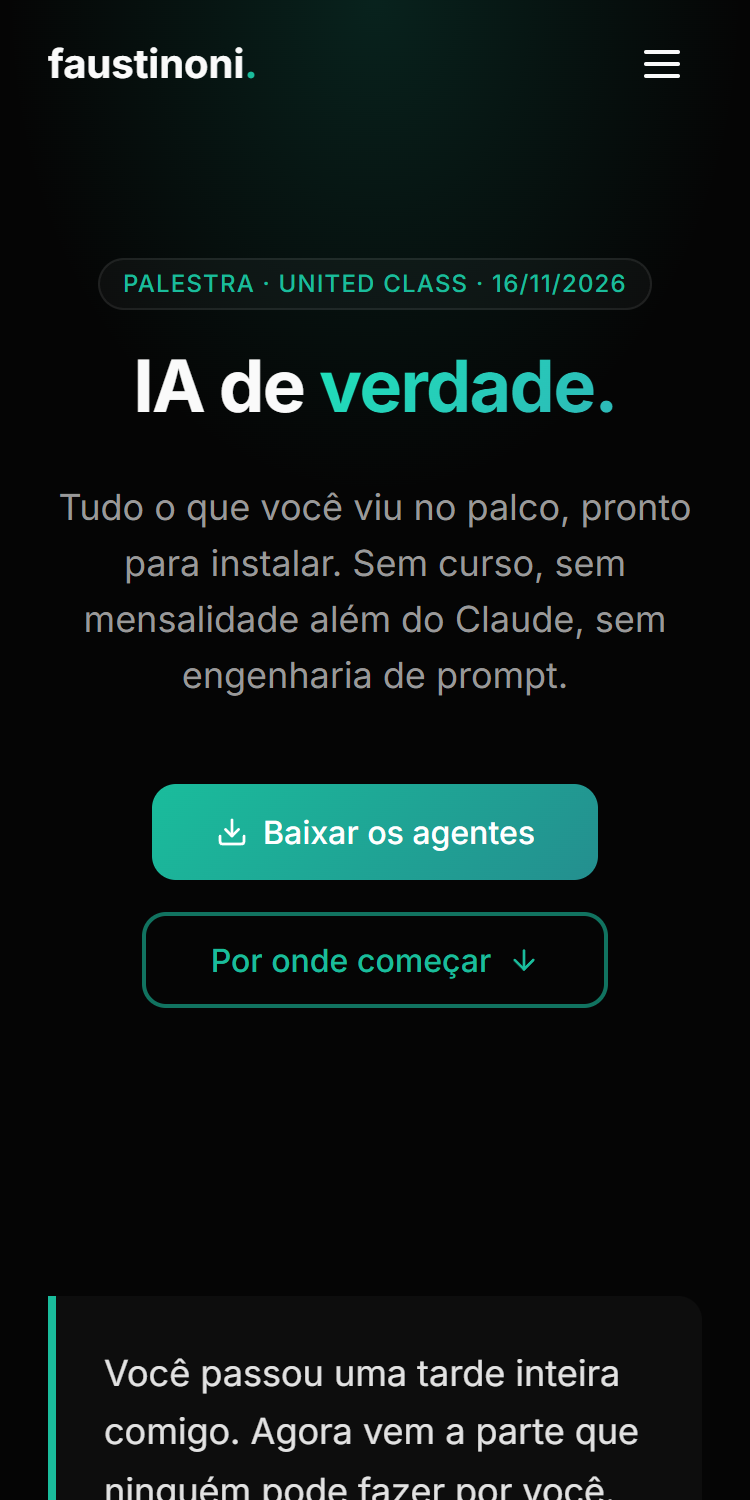
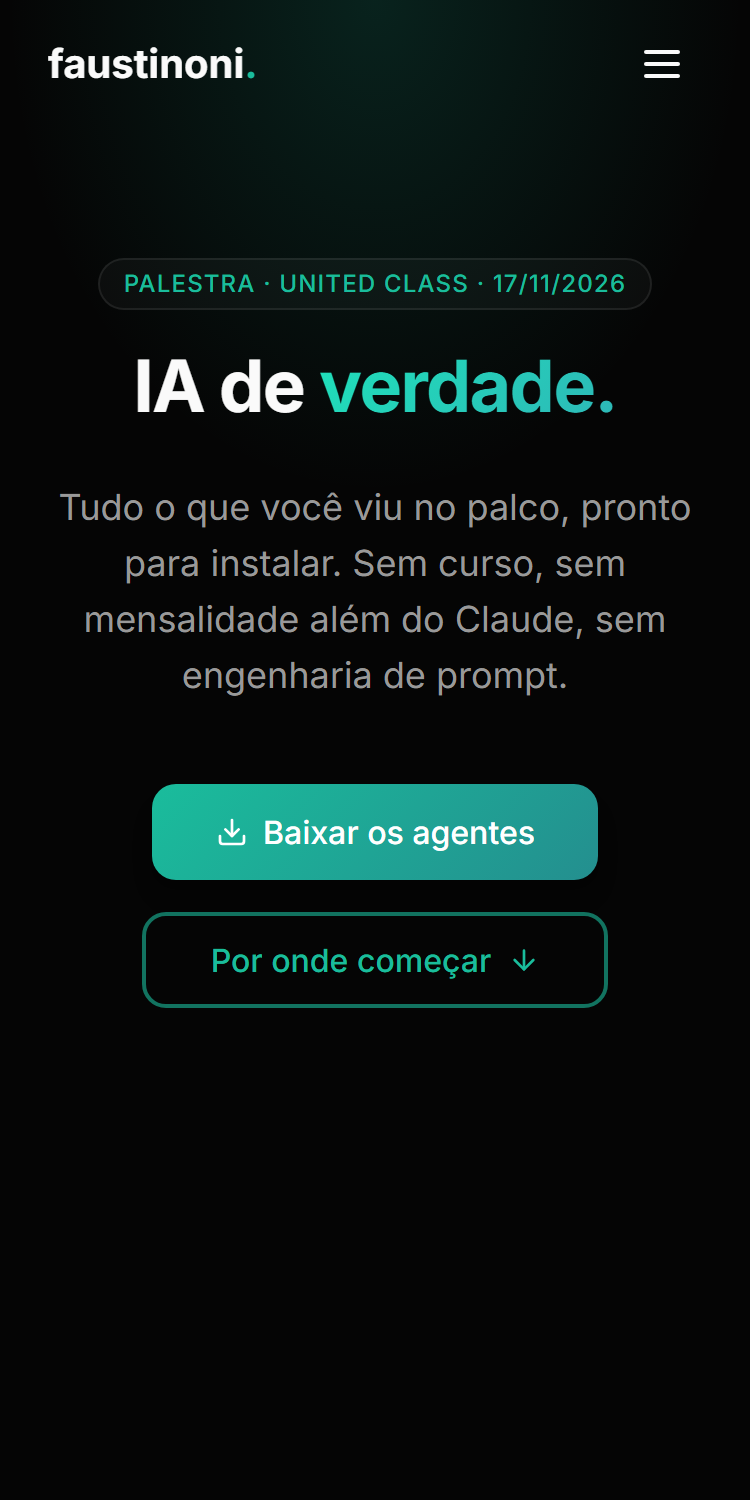
Treinamento de tráfego agora é o TPC 2026 (pago): sai da lista do grátis; prints da página com 17/11

diff --git a/index.html b/index.html
@@ -962,16 +962,14 @@ body.presenter .pv{display:grid;grid-template-columns:1fr 520px;grid-template-ro
     <div class="txt">
       <div class="h-l r">Livro.</div>
       <div class="h-l teal r">Treinamento.</div>
-      <p class="sub r">Escrevi um livro e criei um treinamento. <b>No final, os dois de graça.</b></p>
+      <p class="sub r">Escrevi um livro e criei um treinamento. <b>O livro, vocês levam de graça.</b></p>
     </div>
     <div class="vis r pop">
       <img src="assets/livro-capa.png" alt="" style="height:528px;border-radius:14px;box-shadow:0 30px 80px #000">
       <div style="width:460px;height:528px;box-sizing:border-box;background:linear-gradient(180deg,#0E1B18,var(--card));border:1.5px solid var(--teal);border-radius:24px;padding:44px 40px;display:flex;flex-direction:column;justify-content:space-between;box-shadow:0 0 60px rgba(26,188,156,.18)">
-        <div class="ic-circle sm"><svg class="ic"><use href="#i-trophy"/></svg></div>
-        <div>
-          <div class="kicker" style="margin-bottom:18px">Tráfego pago</div>
-          <div class="h-s" style="font-size:50px;font-weight:900;letter-spacing:-.03em">Método<br>Campeão<br>de Vendas</div>
-        </div>
+        <div class="kicker">Treinamento de tráfego</div>
+        <img src="assets/tpc-logo.png" alt="Tráfego Para Corretores" style="width:340px;align-self:center">
+        <div class="h-s" style="font-size:30px;font-weight:700;line-height:1.25">29 aulas de<br>Meta, Google e IA</div>
       </div>
     </div>
   </div>
@@ -2566,7 +2564,7 @@ body.presenter .pv{display:grid;grid-template-columns:1fr 520px;grid-template-ro
     <div class="txt">
       <div class="h-l r">Tudo.</div>
       <div class="h-l teal r">De graça.</div>
-      <p class="sub r">Os 2 funcionários, o Agente de Imagens,<br>as 15 buscas, o livro e o Método.</p>
+      <p class="sub r">Os 2 funcionários, o Agente de Imagens,<br>as 15 buscas e o livro.</p>
     </div>
     <div class="vis">
       <img class="r" src="assets/pagina-topo.png" alt="A página no computador" style="height:430px;border-radius:14px;border:1.5px solid var(--line);box-shadow:0 30px 80px #000">
